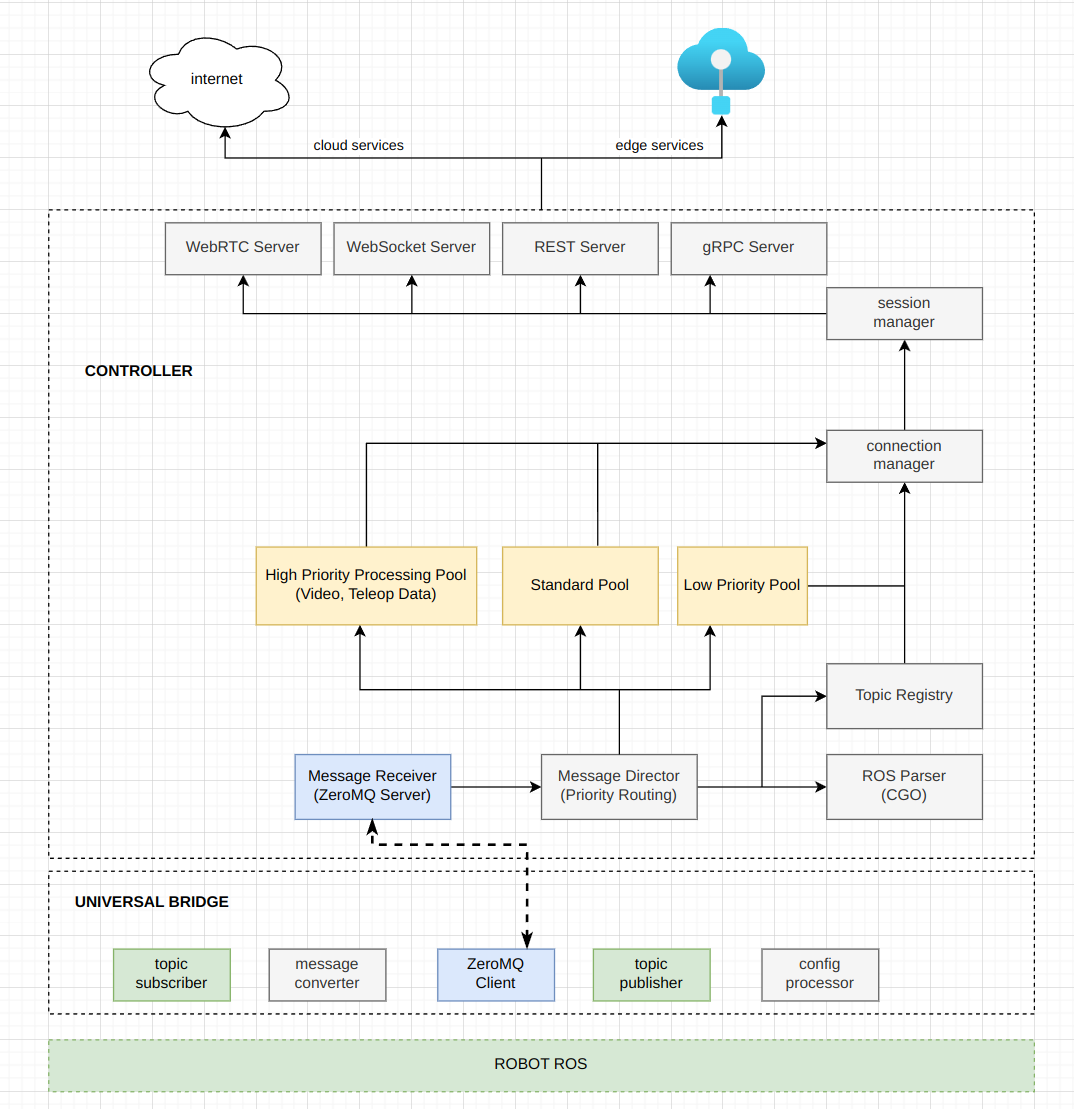
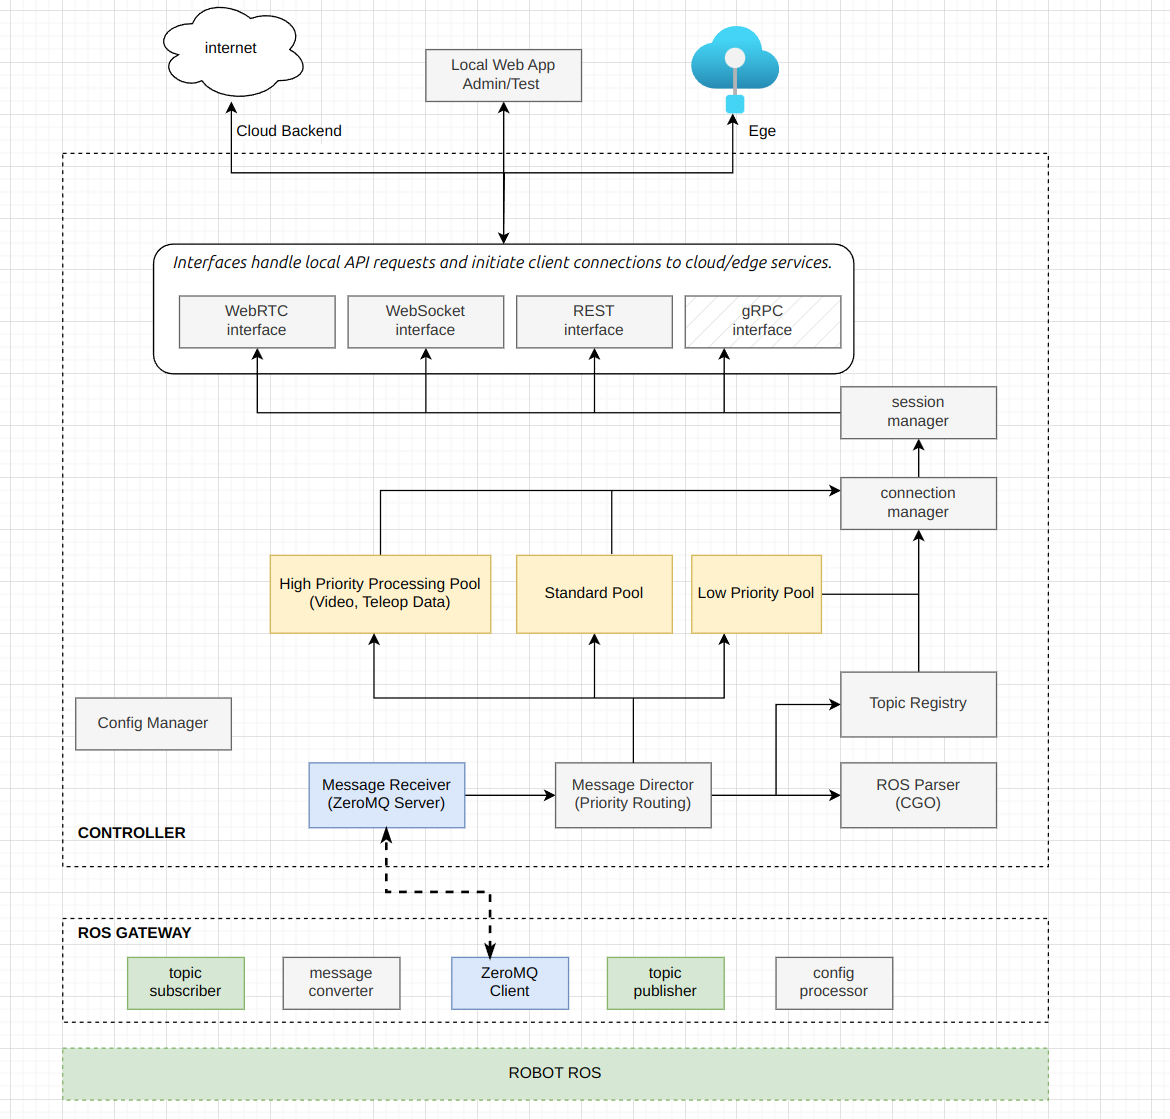
added mini web ui and handler in controller

diff --git a/controller/web/static/script.js b/controller/web/static/script.js
@@ -1,0 +1,153 @@
+// Basic structure for joystick control logic
+
+document.addEventListener('DOMContentLoaded', (event) => {
+    console.log('DOM fully loaded and parsed');
+
+    const statusDiv = document.getElementById('status');
+    const joystickContainer = document.getElementById('joystick-container');
+    const joystickBase = document.getElementById('joystick-base');
+    const joystickHandle = document.getElementById('joystick-handle');
+
+    let isDragging = false;
+    let ws; // WebSocket placeholder
+    let sendInterval; // Interval timer placeholder
+    let lastSentLinear = 0;
+    let lastSentAngular = 0;
+
+    const baseRect = joystickBase.getBoundingClientRect();
+    const baseRadius = baseRect.width / 2;
+    const handleRadius = joystickHandle.offsetWidth / 2;
+    const maxHandleDisplacement = baseRadius - handleRadius;
+
+    // --- WebSocket Connection ---
+    function connectWebSocket() {
+        // Determine WebSocket URL based on page location
+        const wsProtocol = window.location.protocol === 'https:' ? 'wss:' : 'ws:';
+        const wsUrl = `${wsProtocol}//${window.location.host}/ws/control`;
+        console.log(`Connecting to WebSocket: ${wsUrl}`);
+        statusDiv.textContent = 'Status: Connecting...';
+
+        ws = new WebSocket(wsUrl);
+
+        ws.onopen = () => {
+            console.log('WebSocket connection opened');
+            statusDiv.textContent = 'Status: Connected';
+            statusDiv.style.color = 'green';
+        };
+
+        ws.onclose = (event) => {
+            console.log('WebSocket connection closed:', event.code, event.reason);
+            statusDiv.textContent = `Status: Disconnected (${event.code})`;
+            statusDiv.style.color = 'red';
+            ws = null;
+            // Attempt to reconnect after a delay
+            setTimeout(connectWebSocket, 5000); // Reconnect after 5 seconds
+        };
+
+        ws.onerror = (error) => {
+            console.error('WebSocket error:', error);
+            statusDiv.textContent = 'Status: Error';
+            statusDiv.style.color = 'red';
+            // The onclose event will likely follow, triggering reconnection attempt
+        };
+
+        // We don't expect messages from server in this simple case
+        // ws.onmessage = (event) => {
+        //     console.log('WebSocket message received:', event.data);
+        // };
+    }
+
+    // --- Event Listeners ---
+    joystickHandle.addEventListener('mousedown', startDragging);
+    document.addEventListener('mouseup', stopDragging);
+    document.addEventListener('mousemove', handleDrag);
+
+    joystickHandle.addEventListener('touchstart', startDragging, { passive: false });
+    document.addEventListener('touchend', stopDragging);
+    document.addEventListener('touchmove', handleDrag, { passive: false });
+
+    function startDragging(e) {
+        isDragging = true;
+        joystickHandle.style.transition = 'none'; // Disable transition during drag
+        if (e.type === 'touchstart') {
+            e.preventDefault(); // Prevent scrolling on touch devices
+        }
+        console.log("Drag Start");
+    }
+
+    function stopDragging(e) {
+        if (!isDragging) return;
+        isDragging = false;
+        joystickHandle.style.transition = 'transform 0.1s ease-out'; // Smooth return
+        joystickHandle.style.transform = 'translate(-50%, -50%)'; // Return to center
+        console.log("Drag End: Sending zero velocity");
+        sendJoystickData(0, 0);
+    }
+
+    function handleDrag(e) {
+        if (!isDragging) return;
+
+        let clientX, clientY;
+        if (e.type.startsWith('touch')) {
+            if (e.touches.length > 0) {
+                 clientX = e.touches[0].clientX;
+                 clientY = e.touches[0].clientY;
+            }
+             e.preventDefault(); // Prevent scrolling on touch devices
+        } else {
+            clientX = e.clientX;
+            clientY = e.clientY;
+        }
+
+        const baseCenterX = baseRect.left + baseRadius;
+        const baseCenterY = baseRect.top + baseRadius;
+
+        let dx = clientX - baseCenterX;
+        let dy = clientY - baseCenterY;
+
+        const distance = Math.sqrt(dx * dx + dy * dy);
+
+        // Clamp the handle position within the base circle
+        if (distance > maxHandleDisplacement) {
+            dx = (dx / distance) * maxHandleDisplacement;
+            dy = (dy / distance) * maxHandleDisplacement;
+        }
+
+        // Update handle visual position (relative to its center)
+        const handleX = dx;
+        const handleY = dy;
+        joystickHandle.style.transform = `translate(calc(-50% + ${handleX}px), calc(-50% + ${handleY}px))`;
+
+        // Calculate linear/angular values (-1.0 to 1.0)
+        // Assuming forward is negative Y, right is positive X for angular
+        const linear = -dy / maxHandleDisplacement;
+        const angular = dx / maxHandleDisplacement;
+
+        sendJoystickData(linear, angular);
+    }
+
+    function sendJoystickData(linear, angular) {
+        // Only send if values have changed significantly or are non-zero
+         if (Math.abs(linear - lastSentLinear) > 0.01 || Math.abs(angular - lastSentAngular) > 0.01 || linear !== 0 || angular !== 0 || (lastSentLinear === 0 && lastSentAngular === 0 && (linear !== 0 || angular !== 0)) || (linear === 0 && angular === 0 && (lastSentLinear !== 0 || lastSentAngular !== 0)))
+        {
+            // Format the message as expected by the backend (geometry_msgs/Twist structure)
+            const message = JSON.stringify({
+                linear: { x: linear, y: 0, z: 0 },
+                angular: { x: 0, y: 0, z: angular }
+            });
+
+            if (ws && ws.readyState === WebSocket.OPEN) {
+                console.log(`Sending WS: ${message}`);
+                ws.send(message);
+            } else {
+                 console.log(`WS not open. Skipping send: linear=${linear.toFixed(2)}, angular=${angular.toFixed(2)}`);
+            }
+            lastSentLinear = linear;
+            lastSentAngular = angular;
+        }
+    }
+
+    // --- Initial Connection ---
+    connectWebSocket();
+
+}); 

diff --git a/controller/web/static/style.css b/controller/web/static/style.css
@@ -1,0 +1,57 @@
+body {
+    font-family: sans-serif;
+    display: flex;
+    flex-direction: column;
+    align-items: center;
+    padding: 20px;
+    /* Ensure body takes up height for joystick detection */
+    min-height: 100vh;
+    box-sizing: border-box;
+}
+
+#joystick-container {
+    width: 200px; /* Overall container size */
+    height: 200px;
+    margin-top: 20px;
+    margin-bottom: 20px;
+    display: flex; /* Use flexbox to center the base */
+    justify-content: center;
+    align-items: center;
+    border: 1px solid #ccc; /* Optional: visual guide for container */
+    border-radius: 50%;
+    box-sizing: border-box;
+}
+
+#joystick-base {
+    width: 180px; /* Slightly smaller than container */
+    height: 180px;
+    background-color: #e0e0e0;
+    border-radius: 50%;
+    position: relative; /* Positioning context for the handle */
+    box-shadow: inset 0 0 10px rgba(0,0,0,0.2);
+}
+
+#joystick-handle {
+    width: 80px; /* Size of the draggable handle */
+    height: 80px;
+    background-color: #6495ED; /* Cornflower blue */
+    border-radius: 50%;
+    position: absolute;
+    top: 50%;
+    left: 50%;
+    transform: translate(-50%, -50%); /* Center handle in base */
+    cursor: grab;
+    box-shadow: 0 2px 5px rgba(0,0,0,0.3);
+    border: 2px solid #4682B4; /* Steel blue border */
+}
+
+#joystick-handle:active {
+    cursor: grabbing;
+    background-color: #4169E1; /* Royal blue when active */
+}
+
+#status {
+    margin-top: 10px;
+    font-style: italic;
+    color: #555;
+}

diff --git a/controller/web/static/index.html b/controller/web/static/index.html
@@ -1,0 +1,24 @@
+<!DOCTYPE html>
+<html lang="en">
+<head>
+    <meta charset="UTF-8">
+    <meta name="viewport" content="width=device-width, initial-scale=1.0">
+    <title>Open Teleop Control</title>
+    <link rel="stylesheet" href="style.css">
+</head>
+<body>
+    <h1>Open Teleop Joystick Control</h1>
+    <div id="joystick-container">
+        <!-- Custom Joystick Elements -->
+        <div id="joystick-base">
+            <div id="joystick-handle"></div>
+        </div>
+    </div>
+    <div id="status">
+        Status: Disconnected
+    </div>
+    <!-- Remove virtualjoystick -->
+    <!-- <script src="https://jeromeetienne.github.io/virtualjoystick.js/virtualjoystick.js"></script> -->
+    <script src="script.js"></script>
+</body>
+</html> 

diff --git a/controller/cmd/controller/main.go b/controller/cmd/controller/main.go
@@ -1,7 +1,8 @@
 package main
 
 import (
-	"context"
+	"context" // Added for WebSocket message parsing
+	"encoding/json"
 	"errors"
 	"flag"
 	"fmt"
@@ -13,6 +14,8 @@ import (
 	"syscall"
 	"time"
 
+	// Added for WebSocket support
+	"github.com/gofiber/contrib/websocket"
 	"github.com/gofiber/fiber/v2"
 	fiberlogger "github.com/gofiber/fiber/v2/middleware/logger"
 	"github.com/gofiber/fiber/v2/middleware/recover"
@@ -28,6 +31,18 @@ import (
 	// Import our ZeroMQ server
 	"github.com/open-teleop/controller/pkg/zeromq"
 )
+
+// --- Data Structures for WebSocket Messages ---
+type Vector3 struct {
+	X float64 `json:"x"`
+	Y float64 `json:"y"`
+	Z float64 `json:"z"`
+}
+
+type TwistMsg struct {
+	Linear  Vector3 `json:"linear"`
+	Angular Vector3 `json:"angular"`
+}
 
 func main() {
 	// Parse command line flags for initial setup
@@ -200,18 +215,27 @@ func main() {
 		// Use operational config for server behavior settings
 		ReadTimeout: time.Duration(cfg.Controller.Server.RequestTimeout) * time.Second,
 		BodyLimit:   cfg.Controller.Server.MaxRequestSize * 1024 * 1024, // Convert MB to bytes
+		IdleTimeout: 7 * time.Second,                                    // Add idle timeout slightly > shutdown timeout
 	})
 
 	// Add middleware
 	app.Use(fiberlogger.New())
 	app.Use(recover.New())
 
-	// --- Set up basic routes (uses operational config 'cfg') ---
-	app.Get("/", func(c *fiber.Ctx) error {
+	// --- Serve Static Files (Web UI) first ---
+	// Serve index.html from ./web/static for the root path
+	// Path is relative to the project root, as run_controller.sh executes from there.
+	app.Static("/", "controller/web/static", fiber.Static{
+		Index:         "index.html",
+		CacheDuration: 1 * time.Second, // Disable caching for dev
+	})
+
+	// --- Set up basic API routes (uses operational config 'cfg') ---
+	app.Get("/api/status", func(c *fiber.Ctx) error { // Changed route from / to /api/status
 		return c.JSON(fiber.Map{
 			"status":    "online",
-			"version":   cfg.Version,  // Operational config version
-			"config_id": cfg.ConfigID, // Operational config ID
+			"version":   cfg.Version,
+			"config_id": cfg.ConfigID,
 			"robot_id":  cfg.RobotID,
 		})
 	})
@@ -233,6 +257,58 @@ func main() {
 			"outbound_count": len(outboundTopics),
 		})
 	})
+
+	// --- WebSocket Route for Control ---
+	app.Use("/ws", func(c *fiber.Ctx) error { // Middleware to check if it's a WebSocket upgrade request
+		if websocket.IsWebSocketUpgrade(c) {
+			c.Locals("allowed", true)
+			return c.Next()
+		}
+		logger.Warnf("Non-websocket request to /ws endpoint from %s", c.IP())
+		return fiber.ErrUpgradeRequired
+	})
+
+	app.Get("/ws/control", websocket.New(func(conn *websocket.Conn) {
+		logger.Infof("Control WebSocket connected: %s", conn.RemoteAddr())
+		var (
+			mt  int
+			msg []byte
+			err error
+		)
+		for {
+			if mt, msg, err = conn.ReadMessage(); err != nil {
+				if websocket.IsUnexpectedCloseError(err, websocket.CloseGoingAway, websocket.CloseAbnormalClosure) {
+					logger.Errorf("Control WS read error: %v", err)
+				} else {
+					logger.Infof("Control WS connection closed normally: %v", err)
+				}
+				break // Exit loop on error/close
+			}
+			// logger.Debugf("Control WS message received (type %d): %s", mt, string(msg))
+
+			if mt == websocket.TextMessage {
+				var twist TwistMsg
+				if err := json.Unmarshal(msg, &twist); err != nil {
+					logger.Warnf("Failed to unmarshal Twist command from WS: %v. Message: %s", err, string(msg))
+					continue // Skip malformed message
+				}
+
+				// Log the received command
+				logger.Infof("Received Twist command via WS: LinearX=%.2f, AngularZ=%.2f", twist.Linear.X, twist.Angular.Z)
+
+				// --- Forwarding to MessageDirector (Deferred) ---
+				// ottTopic := "teleop.control.velocity"
+				// err := messageDirector.DirectMessage(ottTopic, msg, "WEBSOCKET_JSON")
+				// if err != nil {
+				//     logger.Errorf("Failed to direct message for topic %s: %v", ottTopic, err)
+				// }
+
+			} else {
+				logger.Infof("Ignoring non-text Control WS message type: %d", mt)
+			}
+		}
+		logger.Infof("Control WebSocket disconnected: %s", conn.RemoteAddr())
+	}))
 
 	// --- Start HTTP server in a goroutine ---
 	go func() {
